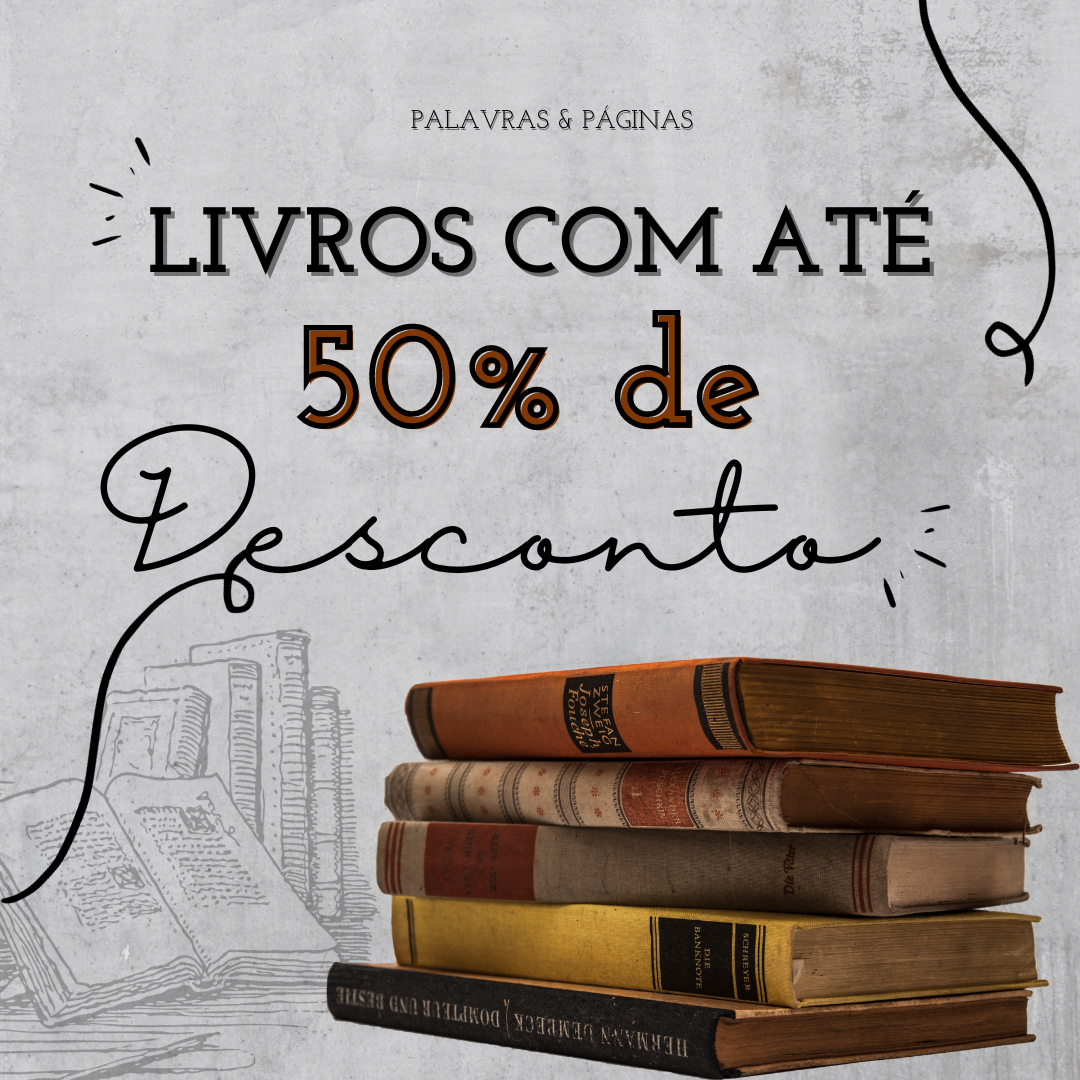
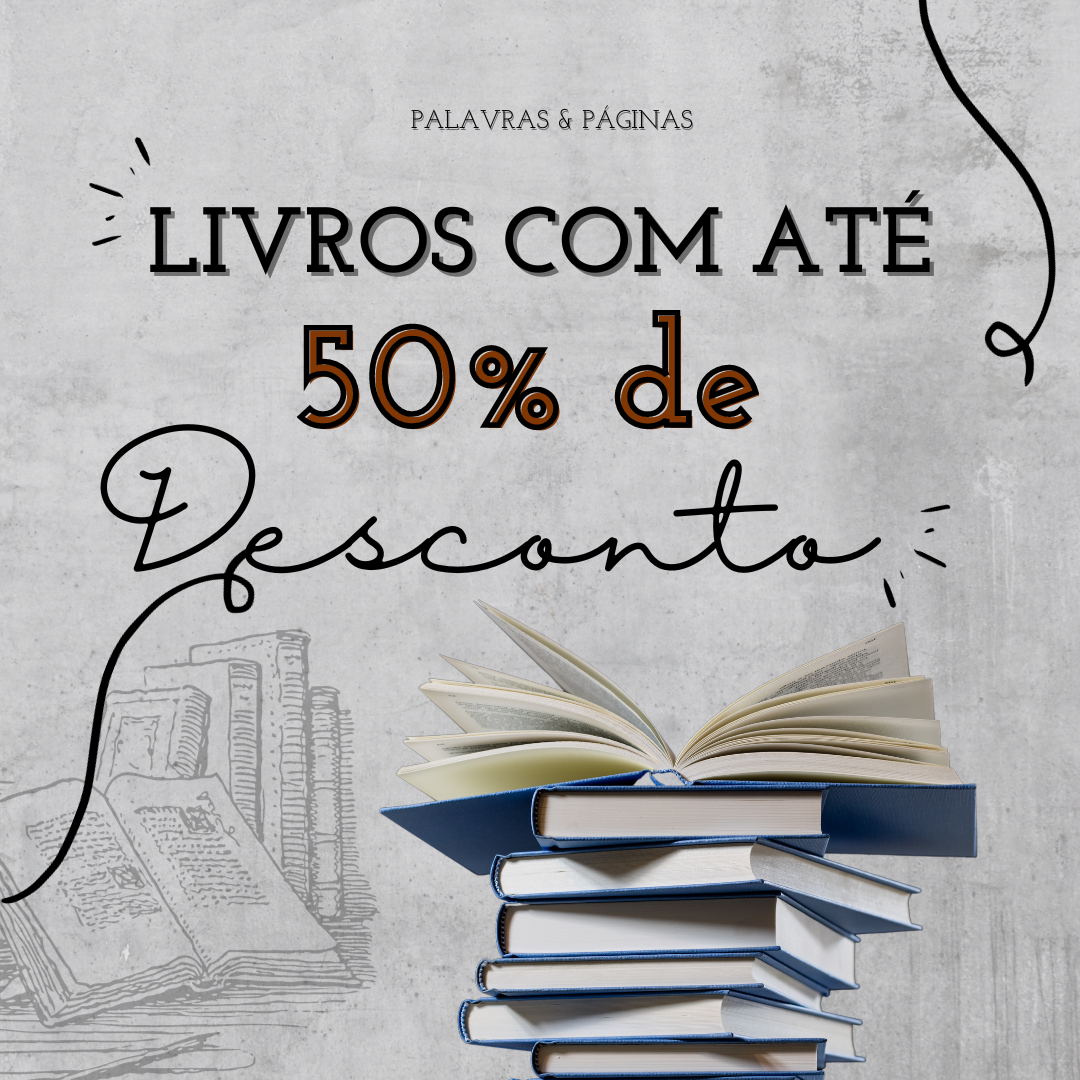
main
alterei foto capa

Changed region(s): [[0.3056, 0.55, 1.0, 1.0]]

diff --git a/src/app/views/home/home.component.html b/src/app/views/home/home.component.html
@@ -9,8 +9,8 @@
     <!-- inclusao das imagens de capa.. trocar pelas promocionais -->
     <div>
         <figure>
-            <img src="assets/img/esque1.png" alt="Foto esqueda">
-            <img src="assets/img/dir2.png" alt="Foto direita">
+            <img src="assets/img/esque.png" alt="Foto esqueda">
+            <img src="assets/img/dir.png" alt="Foto direita">
         </figure>
     </div>
 
